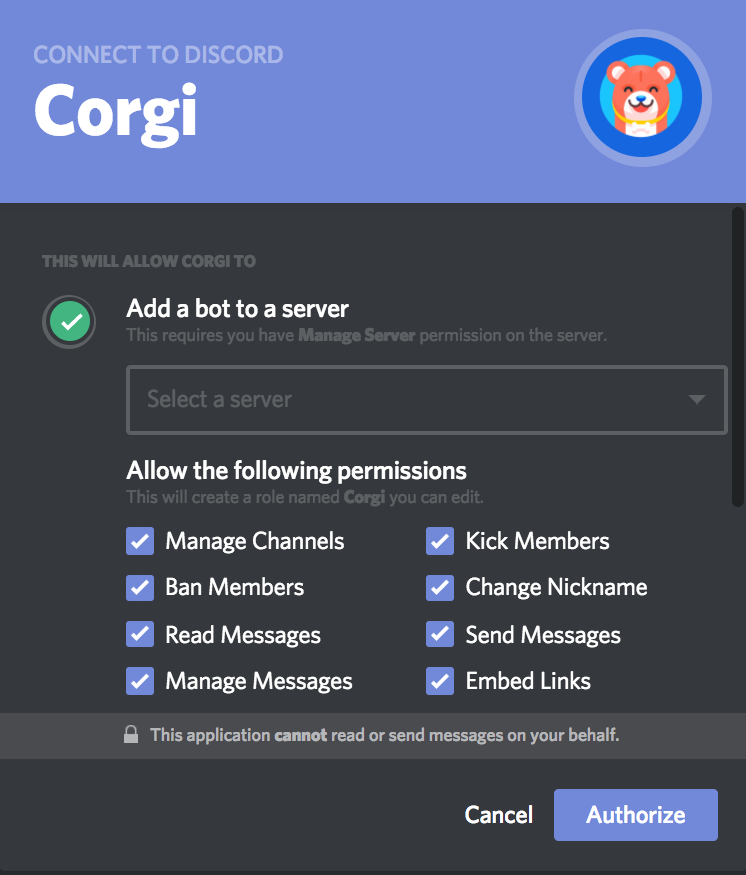
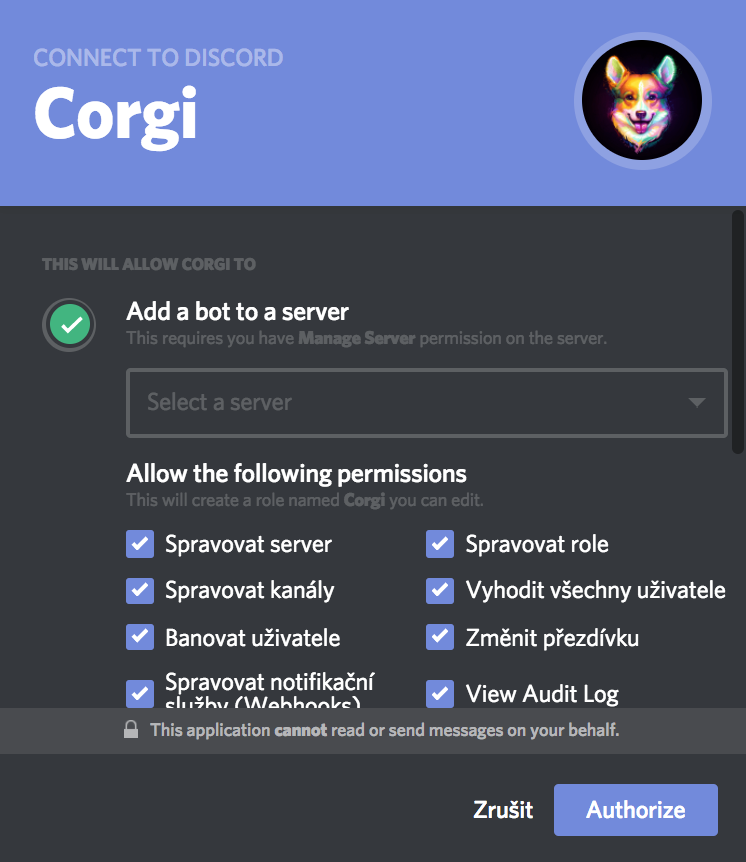
Update prvního nastavení

diff --git a/prvni-nastaveni.html b/prvni-nastaveni.html
@@ -97,6 +97,12 @@
       <section class="section">
         <div class="container">
 
+            <div class="alert alert-info" role="alert">
+                <img draggable="false" style="width: 22px;" alt="💡" src="assets/emoji/light_bulb.png">
+                <strong>| Info!</strong> Pokuď nemáš invite link, stačí kliknout <strong><a href="https://discordapp.com/oauth2/authorize?client_id=294952122582302720&scope=bot&permissions=938863862" target="_blank">ZDE</a></strong>
+            </div>
+            <br>
+
           <div class="row gap-y align-items-center mb-90">
             <div class="col-12 col-md-6 text-center hidden-sm-down">
               <img class="rounded shadow-2 img-setup" src="assets/img/corgi-setup-1.png" alt="...">
@@ -130,26 +136,8 @@
 
             <div class="col-12 col-md-5 offset-md-1 text-center text-md-left">
               <p class="fs-60 fw-900 opacity-10">03</p>
-              <h3 class="fw-300">Nastavení práv</h3>
-              <p>Corgi dělí práva do tří základních skupin:</p>
-              <ul>
-                <li><strong>Uživatel</strong> - všichni, co nemají určité práva a vyšší ranky.</li>
-                <li><strong>Moderátor</strong> - člen serveru, který má pravomoce na banování uživatelů - <code>BAN_MEMBERS</code></li>
-                <li><strong>Administrátor</strong> - člen serveru, který má povolenou kompletní administraci Discord serveru. - <code>ADMINISTARTOR</code></li>
-              </ul>
-            </div>
-          </div>
-
-
-          <div class="row gap-y align-items-center">
-            <div class="col-12 col-md-5 text-center text-md-left">
-              <p class="fs-60 fw-900 opacity-10">04</p>
-              <h3 class="fw-300">To je vše</h3>
-              <p>Nyní je vše všechno základní nastavení nastaveno. Pokud jsi vynechal krok nastavení práv, Corgi bude automaticky detekovat pouze uživatele a hlavního administrátora.</p>
-            </div>
-
-            <div class="col-12 col-md-6 offset-md-1 text-center hidden-sm-down">
-              <img class="rounded shadow-2" src="assets/img/corgi-setup-4.png" alt="...">
+              <h3 class="fw-300">A to je vše!</h3>
+              <p>Nyní může Corgiho používat celý server! Doporučujeme také změnit základní prefix pomocí příkazu <code>c!prefix</code>. Seznam všech příkazů najdeš v sekci <a href="prikazy.html">příkazy.</a></p>
             </div>
           </div>
 
